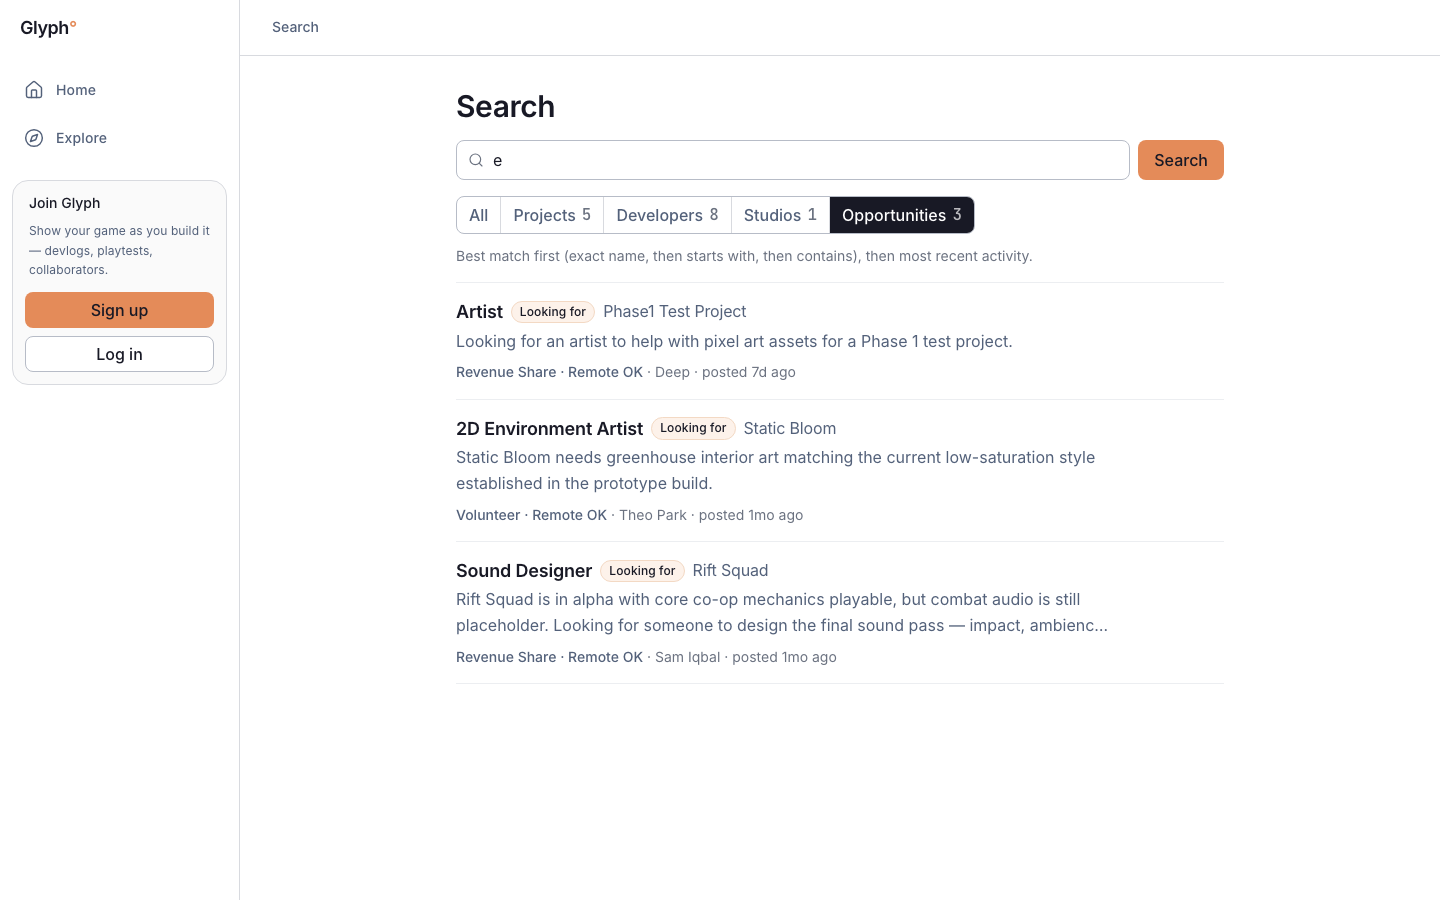
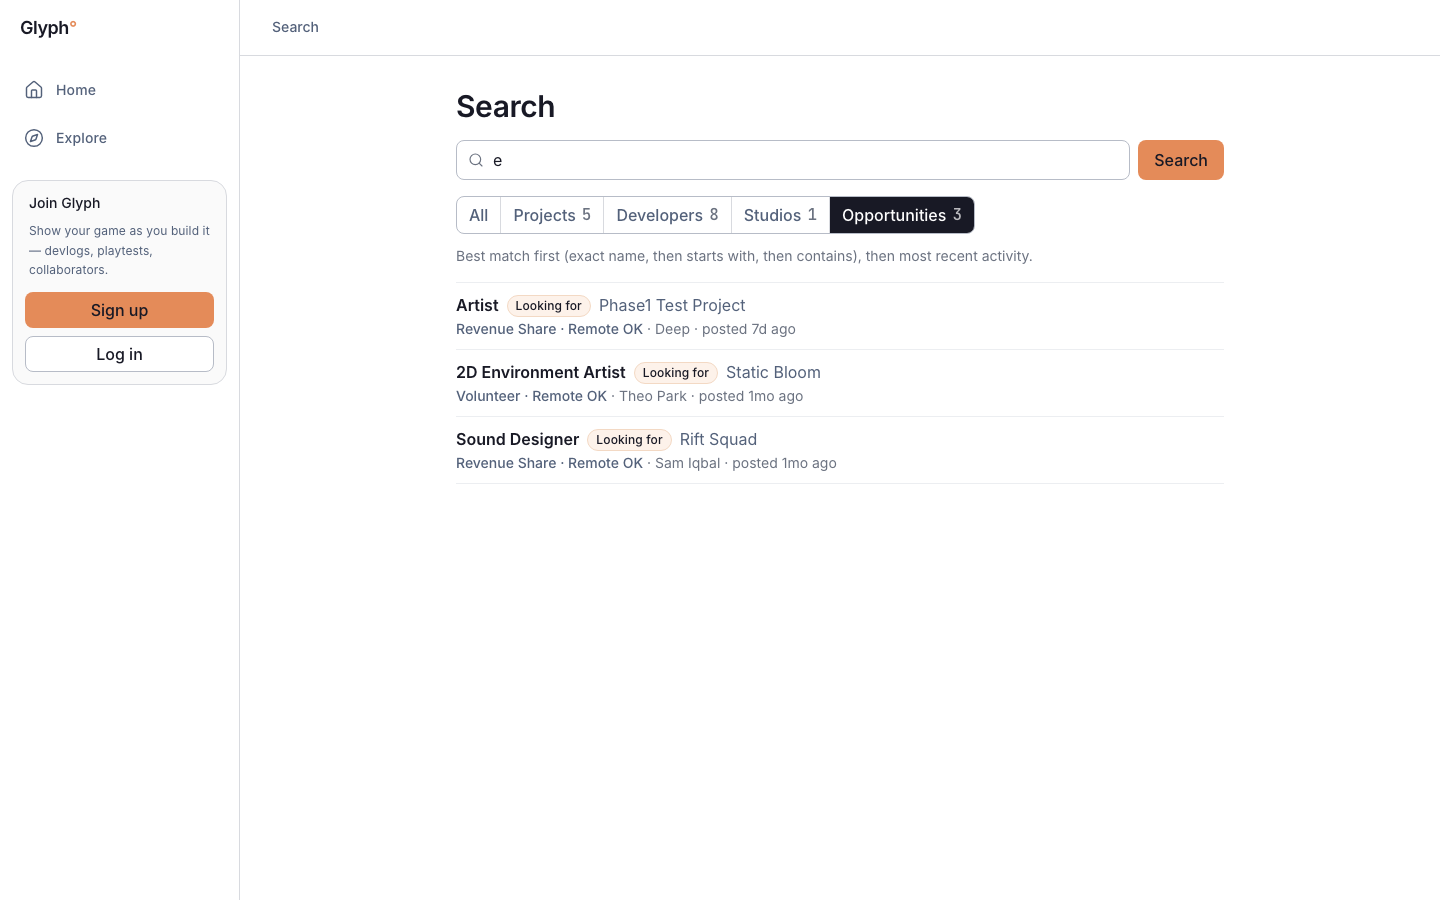
Search iteration: dense result rows (fast-scan mode)
Acts on independent review: Search scored 7/7/7 against Visual≥9/Composition≥9/
Interaction≥8.5 — density read as "Explore with borders removed," not a real
retrieval tool. Highest-value fix: compress result rows.

Added an opt-in `dense` prop to ProjectRow, DeveloperRow, StudioResultRow and
CollaborationListing: Search now renders identity + one meta line only (no
pitch/bio/description), matching GitHub/Raycast/Slack scan density. Explore,
Studios and Collaborate keep their existing richer default (dense defaults to
false) — verified unaffected. 5 project results now fit above the fold at 1440
vs 3 before.

Changed region(s): [[0.3125, 0.3111, 0.75, 0.5911], [0.3125, 0.6222, 0.75, 0.7467]]

diff --git a/app/search/page.tsx b/app/search/page.tsx
@@ -198,7 +198,7 @@ export default async function SearchPage({ searchParams }: { searchParams: Promi
                         <section aria-labelledby="res-proj">
                           <h2 id="res-proj" className={type === 'all' ? 'mb-1 font-mono text-micro font-medium uppercase tracking-wide text-fg-muted' : 'sr-only'}>Projects <span>{counts.projects}</span></h2>
                           <ul className="divide-y divide-line-subtle border-y border-line-subtle">
-                            {projects.rows.map((p) => <ProjectRow key={p.id} variant="listing" project={p} />)}
+                            {projects.rows.map((p) => <ProjectRow key={p.id} variant="listing" project={p} dense />)}
                           </ul>
                           {type === 'all' && counts.projects > SEARCH_ALL_PREVIEW && (
                             <Link href={href({ type: 'projects' })} className="inline-flex min-h-11 items-center text-small font-medium text-link underline-offset-2 hover:underline">See all {counts.projects} projects</Link>
@@ -209,7 +209,7 @@ export default async function SearchPage({ searchParams }: { searchParams: Promi
                         <section aria-labelledby="res-dev">
                           <h2 id="res-dev" className={type === 'all' ? 'mb-1 font-mono text-micro font-medium uppercase tracking-wide text-fg-muted' : 'sr-only'}>Developers <span>{counts.profiles}</span></h2>
                           <ul className="divide-y divide-line-subtle border-y border-line-subtle">
-                            {devs.rows.map((d) => <DeveloperRow key={d.id} developer={d} viewerId={viewer?.id ?? null} following={following.has(d.id)} />)}
+                            {devs.rows.map((d) => <DeveloperRow key={d.id} developer={d} viewerId={viewer?.id ?? null} following={following.has(d.id)} dense />)}
                           </ul>
                           {type === 'all' && counts.profiles > SEARCH_ALL_PREVIEW && (
                             <Link href={href({ type: 'profiles' })} className="inline-flex min-h-11 items-center text-small font-medium text-link underline-offset-2 hover:underline">See all {counts.profiles} developers</Link>
@@ -220,7 +220,7 @@ export default async function SearchPage({ searchParams }: { searchParams: Promi
                         <section aria-labelledby="res-studio">
                           <h2 id="res-studio" className={type === 'all' ? 'mb-1 font-mono text-micro font-medium uppercase tracking-wide text-fg-muted' : 'sr-only'}>Studios <span>{counts.studios}</span></h2>
                           <ul className="divide-y divide-line-subtle border-y border-line-subtle">
-                            {studios.rows.map((s) => <StudioResultRow key={s.id} studio={s} />)}
+                            {studios.rows.map((s) => <StudioResultRow key={s.id} studio={s} dense />)}
                           </ul>
                           {type === 'all' && counts.studios > SEARCH_ALL_PREVIEW && (
                             <Link href={href({ type: 'studios' })} className="inline-flex min-h-11 items-center text-small font-medium text-link underline-offset-2 hover:underline">See all {counts.studios} studios</Link>
@@ -231,7 +231,7 @@ export default async function SearchPage({ searchParams }: { searchParams: Promi
                         <section aria-labelledby="res-opp">
                           <h2 id="res-opp" className={type === 'all' ? 'mb-1 font-mono text-micro font-medium uppercase tracking-wide text-fg-muted' : 'sr-only'}>Opportunities <span>{counts.opportunities}</span></h2>
                           <ul className="divide-y divide-line-subtle border-y border-line-subtle">
-                            {opportunities.rows.map((o) => <CollaborationListing key={o.id} post={o} />)}
+                            {opportunities.rows.map((o) => <CollaborationListing key={o.id} post={o} dense />)}
                           </ul>
                           {type === 'all' && counts.opportunities > SEARCH_ALL_PREVIEW && (
                             <Link href={href({ type: 'opportunities' })} className="inline-flex min-h-11 items-center text-small font-medium text-link underline-offset-2 hover:underline">See all {counts.opportunities} opportunities</Link>

diff --git a/components/project/ProjectRow.tsx b/components/project/ProjectRow.tsx
@@ -28,7 +28,7 @@ export type ProjectRowData = {
  * `compact` is a list line; `listing` is a discovery/search result (thumbnail, title, pitch, one meta line).
  * Same object, same link target (the canonical project page). Renders inside a <ul> for compact/listing via <li>.
  */
-export function ProjectRow({ project, username, variant = 'compact' }: { project: ProjectRowData; username?: string; variant?: 'compact' | 'feature' | 'listing' }) {
+export function ProjectRow({ project, username, variant = 'compact', dense = false }: { project: ProjectRowData; username?: string; variant?: 'compact' | 'feature' | 'listing'; /** Search's fast-scan density: identity + one meta line, no pitch. Explore/Studios keep the richer default. */ dense?: boolean }) {
   const owner = project.username ?? username ?? ''
   const href = project.slug ? `/p/${owner}/${project.slug}` : null
   const stage = project.stage ? labelFor(PROJECT_STAGES, project.stage) : null
@@ -37,18 +37,18 @@ export function ProjectRow({ project, username, variant = 'compact' }: { project
   if (variant === 'listing') {
     const engine = project.engine ? labelFor(ENGINES, project.engine) ?? project.engine : null
     const maker = project.display_name || project.username || owner
-    const pitch = project.short_description ? markdownExcerpt(project.short_description, 160) : ''
+    const pitch = !dense && project.short_description ? markdownExcerpt(project.short_description, 160) : ''
     return (
-      <li className="flex gap-3 py-4">
+      <li className={`flex gap-3 ${dense ? 'py-2.5' : 'py-4'}`}>
         <div className="w-16 shrink-0">
-          <ProjectMark title={project.title} id={project.id} coverUrl={project.cover_url ?? project.cover_image_url} ratio="square" compact className="!aspect-auto h-12" />
+          <ProjectMark title={project.title} id={project.id} coverUrl={project.cover_url ?? project.cover_image_url} ratio="square" compact className={dense ? '!aspect-auto h-10' : '!aspect-auto h-12'} />
         </div>
         <div className="min-w-0 flex-1">
           <h3 className="text-body font-medium text-fg [overflow-wrap:anywhere]">
             {href ? <Link href={href} data-result-link className="inline-flex min-h-11 items-center hover:text-link focus-visible:text-link sm:min-h-0">{project.title}</Link> : project.title}
           </h3>
           {pitch && <p className="line-clamp-2 text-small text-fg-secondary">{pitch}</p>}
-          <p className="mt-1 text-small text-fg-muted [overflow-wrap:anywhere]">
+          <p className={`${dense ? '' : 'mt-1'} text-small text-fg-muted [overflow-wrap:anywhere]`}>
             {owner && <Link href={`/dev/${owner}`} className="hover:text-link focus-visible:text-link">{maker}</Link>}
             {stage && <> · {stage}</>}
             {engine && <> · {engine}</>}

diff --git a/components/collaborate/CollaborationListing.tsx b/components/collaborate/CollaborationListing.tsx
@@ -36,6 +36,7 @@ export function CollaborationListing({
   variant = 'board',
   status,
   hint,
+  dense = false,
 }: {
   post: ListingPost
   variant?: 'board' | 'mine'
@@ -43,6 +44,8 @@ export function CollaborationListing({
   status?: { label: string; tone: 'neutral' | 'positive' | 'attention' | 'negative' }
   /** mine: the next step in one line (e.g. "2 to review", "Waiting for review") */
   hint?: string
+  /** Search's fast-scan density: no description, tighter padding. Collaborate keeps the richer default. */
+  dense?: boolean
 }) {
   const seeking = post.post_type === 'seeking_collaborator'
   const arrangement = [post.contract_type ? CONTRACT[post.contract_type] ?? post.contract_type : null, post.remote_allowed ? 'Remote OK' : null, post.location].filter(Boolean).join(' · ')
@@ -68,16 +71,16 @@ export function CollaborationListing({
   }
 
   return (
-    <li className="py-4">
-      <h3 className="flex flex-wrap items-center gap-2 text-h3 font-semibold text-fg [overflow-wrap:anywhere]">
+    <li className={dense ? 'py-2.5' : 'py-4'}>
+      <h3 className={`flex flex-wrap items-center gap-2 font-semibold text-fg [overflow-wrap:anywhere] ${dense ? 'text-body' : 'text-h3'}`}>
         <Link href={`/collaborate/${post.id}`} data-result-link className="inline-flex min-h-11 items-center hover:text-link focus-visible:text-link sm:min-h-0">{roleOf(post)}</Link>
         <Badge tone={seeking ? 'accent' : 'neutral'}>{seeking ? 'Looking for' : 'Offering'}</Badge>
         {post.project_title && (
           projectHref ? <Link href={projectHref} className="text-body font-normal text-fg-secondary hover:text-link">{post.project_title}</Link> : <span className="text-body font-normal text-fg-secondary">{post.project_title}</span>
         )}
       </h3>
-      {post.description && <p className="mt-1 line-clamp-2 max-w-prose text-body text-fg-secondary">{markdownExcerpt(post.description, 220)}</p>}
-      <p className="mt-2 text-small text-fg-muted [overflow-wrap:anywhere]">
+      {!dense && post.description && <p className="mt-1 line-clamp-2 max-w-prose text-body text-fg-secondary">{markdownExcerpt(post.description, 220)}</p>}
+      <p className={`${dense ? '' : 'mt-2'} text-small text-fg-muted [overflow-wrap:anywhere]`}>
         {arrangement && <span className="font-medium text-fg-secondary">{arrangement}</span>}
         {arrangement && ' · '}
         {post.username && <Link href={`/dev/${post.username}`} className="hover:text-link">{post.display_name ?? post.username}</Link>}

diff --git a/components/developer/DeveloperRow.tsx b/components/developer/DeveloperRow.tsx
@@ -11,10 +11,12 @@ const role = (r: string | null) => (r ? r.replace(/_/g, ' ') : null)
  * One developer, two densities. `listing` (Explore/Search): identity, role, current project, availability,
  * activity, one-line bio, real follow state. `compact` (suggestions): avatar, name, role, follow.
  * Renders an <li>. Follow shows only for a signed-in viewer who is not this developer.
+ * `dense` (Search): drops the bio line for fast scanning — identity + one meta line, matching the
+ * other result types' compression there. Explore keeps the richer default.
  */
 export function DeveloperRow(
   props:
-    | { variant?: 'listing'; developer: DeveloperRowData; viewerId: string | null; following: boolean }
+    | { variant?: 'listing'; developer: DeveloperRowData; viewerId: string | null; following: boolean; dense?: boolean }
     | { variant: 'compact'; developer: SuggestedDeveloper; viewerId: string | null; following?: boolean }
 ) {
   const dev = props.developer
@@ -37,8 +39,9 @@ export function DeveloperRow(
   }
 
   const d = props.developer
+  const dense = props.dense ?? false
   return (
-    <li className="flex items-center gap-3 py-4">
+    <li className={`flex items-center gap-3 ${dense ? 'py-2.5' : 'py-4'}`}>
       <Avatar name={name} src={d.avatar_url} size="lg" className="self-start" />
       <div className="min-w-0 flex-1">
         <h3 className="text-body font-medium text-fg [overflow-wrap:anywhere]">
@@ -56,7 +59,7 @@ export function DeveloperRow(
           {d.is_open_to_collab && <> · <span className="font-medium text-success">Open to collaborate</span></>}
           {d.last_activity_at && <> · active {relativeTime(d.last_activity_at)}</>}
         </p>
-        {d.bio && <p className="mt-0.5 line-clamp-1 text-small text-fg-secondary">{d.bio}</p>}
+        {!dense && d.bio && <p className="mt-0.5 line-clamp-1 text-small text-fg-secondary">{d.bio}</p>}
       </div>
       {showFollow && <FollowButton targetId={d.id} currentUserId={props.viewerId} initialFollowing={props.following ?? false} />}
     </li>

diff --git a/components/search/StudioResultRow.tsx b/components/search/StudioResultRow.tsx
@@ -12,9 +12,9 @@ const SIZE_LABELS = Object.fromEntries(STUDIO_SIZES.map((s) => [s.value, s.label
  * project thumbnails here, that's the studio page's job. Same anatomy as the Studios directory row
  * so a studio looks like itself everywhere it appears.
  */
-export function StudioResultRow({ studio }: { studio: StudioRowData }) {
+export function StudioResultRow({ studio, dense = false }: { studio: StudioRowData; dense?: boolean }) {
   return (
-    <li className="flex items-center gap-3 py-4">
+    <li className={`flex items-center gap-3 ${dense ? 'py-2.5' : 'py-4'}`}>
       {isHttpsUrl(studio.logo_url) ? (
         // eslint-disable-next-line @next/next/no-img-element
         <img src={studio.logo_url!} alt="" className="size-11 shrink-0 rounded-media border border-line bg-surface-muted object-cover" />
@@ -27,7 +27,7 @@ export function StudioResultRow({ studio }: { studio: StudioRowData }) {
           {studio.verified && <Badge tone="success">Verified</Badge>}
         </h3>
         <p className="text-small text-fg-muted">{SIZE_LABELS[studio.size] ?? studio.size}</p>
-        {studio.description && <p className="mt-0.5 line-clamp-1 text-small text-fg-secondary">{studio.description}</p>}
+        {!dense && studio.description && <p className="mt-0.5 line-clamp-1 text-small text-fg-secondary">{studio.description}</p>}
       </div>
     </li>
   )

diff --git a/components/devlog/DevlogRow.tsx b/components/devlog/DevlogRow.tsx
@@ -4,6 +4,7 @@ import { markdownExcerpt, relativeTime } from '@/lib/utils'
 import { REACTION_TYPES } from '@/lib/supabase/types'
 import { Avatar } from '@/components/ui/Avatar'
 import { Badge } from '@/components/ui/Badge'
+import { ProjectMark } from '@/components/project/ProjectMark'
 import type { DevlogRowData } from '@/lib/discovery/queries'
 import type { FeedEngagement, FeedRow } from '@/lib/feed/queries'
 
